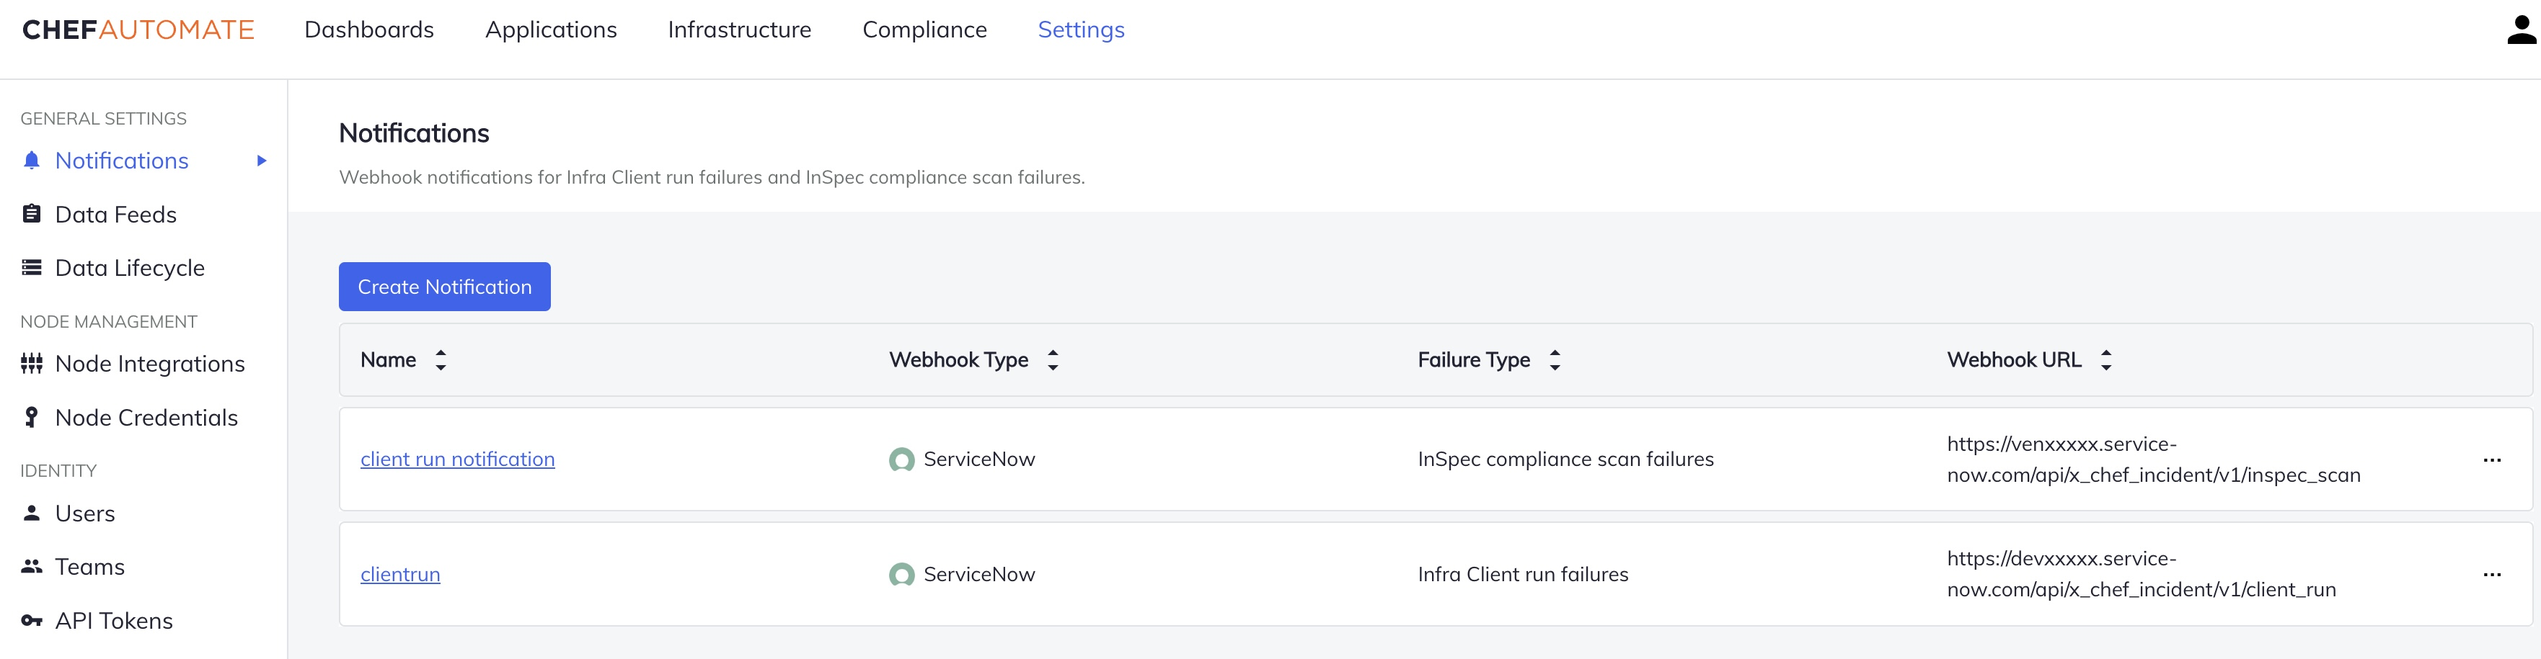
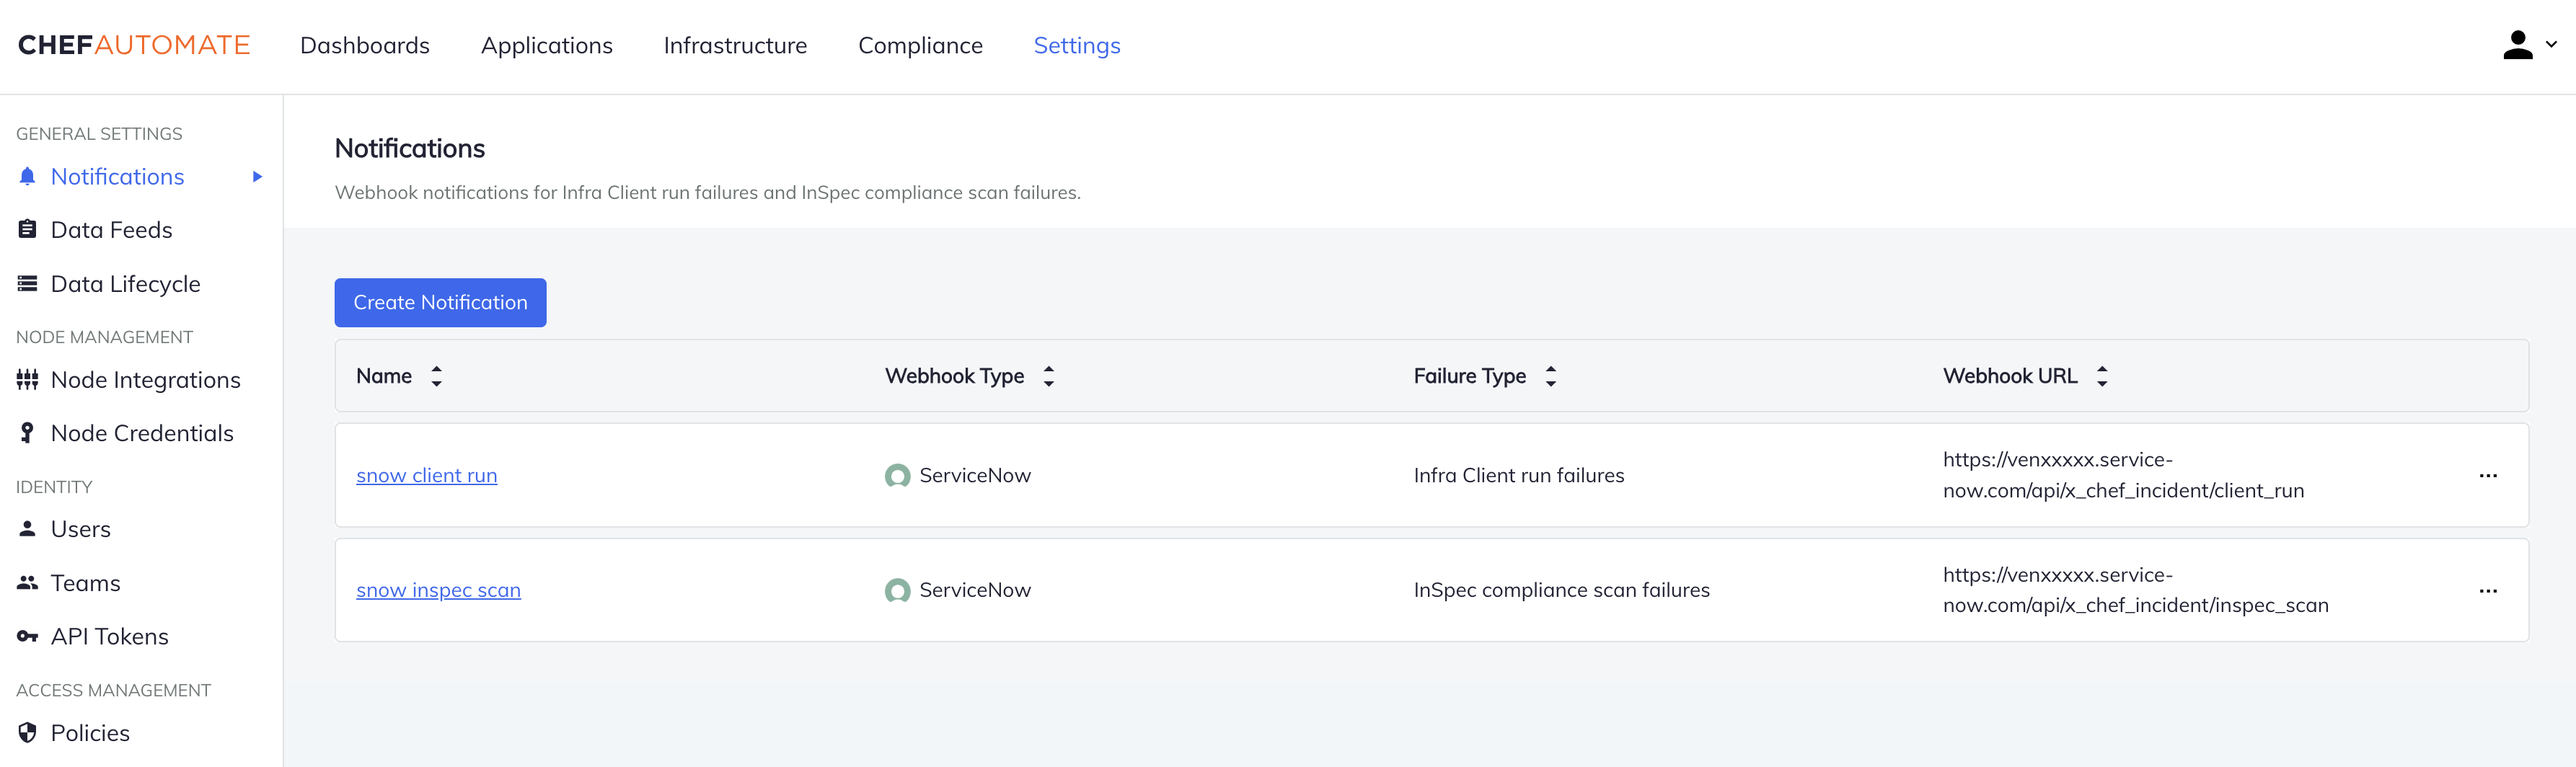
CHEF-5541 snow doc changes

diff --git a/components/docs-chef-io/content/automate/servicenow_incident_creation.md b/components/docs-chef-io/content/automate/servicenow_incident_creation.md
@@ -30,7 +30,7 @@ The Incident App generates a data stream of compliance events that you can lever
 ## User Requirements
 
 * Your unique ServiceNow URL. It has the format: `https://ven12345.service-now.com`.
-* Setting up the Incident App requires the `x_chef_automate.api` role to configure it. Your ServiceNow administrator can enable this for you.
+* Setting up the Incident App requires the `x_chef_incident.api` role to configure it. Your ServiceNow administrator can enable this for you.
 
 ### System Requirements
 
@@ -55,14 +55,14 @@ You can setup automatic incident creation for:
 
 To set up automatic incident reporting for failed Chef Infra Client runs from Chef Automate:
 
-1. Confirm that you have the `x_chef_automate.api` role.
+1. Confirm that you have the `x_chef_incident.api` role.
 1. Navigate to **Settings** > **Notifications**
 1. Select **Create Notification**
 1. Enter or select:
    * **Name**: A unique name for this notification.
    * **Webhook Type**: The product or proccess receiving the notification. Options: **Slack**, **Webhook**, and **ServiceNow**.
    * **Failure Type**: The Chef process for the notification. Select **Infra Client Run failures**.
-   * **Webhook URL**: The API address that the notification uses. It has the format: `https://ven12345.service-now.com/api/x_chef_automate/client_run`.
+   * **Webhook URL**: The API address that the notification uses. It has the format: `https://ven12345.service-now.com/api/x_chef_incident/client_run`.
    * **ServiceNow Username**: The name you use to sign in to ServiceNow.
    * **ServiceNow Password**: The password you use to sign in to ServiceNow.
 1. Select **Test Connectivity**. A successful test displays **Notification test connected successfully**. An unsuccessful test displays a message with information about any connection or credential problems to help you fix the error.
@@ -80,7 +80,7 @@ Follow these steps to report failed Chef InSpec scans from Chef Automate:
    * **Name**: A unique name for this notification.
    * **Webhook Type**: The product or proccess receiving the notification. Select the **ServiceNow** option.
    * **Failure Type**: The Chef process for the notification. Select the **Inspec compliance scan failures** option.
-   * **Webhook URL**: The API address that the notification uses. It has the format:`https://ven12345.service-now.com/api/x_chef_automate/inspec_scan`
+   * **Webhook URL**: The API address that the notification uses. It has the format:`https://ven12345.service-now.com/api/x_chef_incident/inspec_scan`
    * **ServiceNow Username**: The name you use to sign in to ServiceNow.
    * **ServiceNow Password**: The password you use to sign in to ServiceNow.
 1. Select **Test Connectivity**. A successful test displays **Notification test connected successfully**. An unsuccessful test displays a message with information about any connection or credential problems to help you fix the error.

diff --git a/components/docs-chef-io/content/automate/notifications.md b/components/docs-chef-io/content/automate/notifications.md
@@ -45,8 +45,8 @@ To add a servicenow notification for Chef Automate, follow the steps given below
 1. Enter a unique notification **name**.
 1. Select the **failure type** to be notified on from the drop-down menu. Current options are Chef Infra Client run or InSpec scan. According to the failure type selected, enter the **Webhook URL** as shown below:
 
-    - For Chef Infra Client Run: https://devxxxxx.service-now.com/api/x_chef_incident/v1/client_run
-    - For Inspec Scan: https://devxxxxx.service-now.com/api/x_chef_incident/v1/inspec_scan
+    - For Chef Infra Client Run: https://devxxxxx.service-now.com/api/x_chef_incident/client_run
+    - For Inspec Scan: https://devxxxxx.service-now.com/api/x_chef_incident/inspec_scan
 
 1. Enter the **ServiceNow Username**.
 1. Enter the **ServiceNow Password**.

diff --git a/components/docs-chef-io/content/automate/servicenow_event_creation.md b/components/docs-chef-io/content/automate/servicenow_event_creation.md
@@ -20,7 +20,7 @@ The Event Creation App exposes the REST API endpoint for communication between C
 ## User Requirements
 
 - Your unique ServiceNow URL. It has the format: `https://ven12345.service-now.com`.
-- Setting up the Event Creation App requires the `x_chef_automate.api` role in configuring it. Your ServiceNow administrator can enable this for you.
+- Setting up the Event Creation App requires the `x_chef_event.api` role in configuring it. Your ServiceNow administrator can enable this for you.
 
 ## Required ServiceNow Plugins
 
